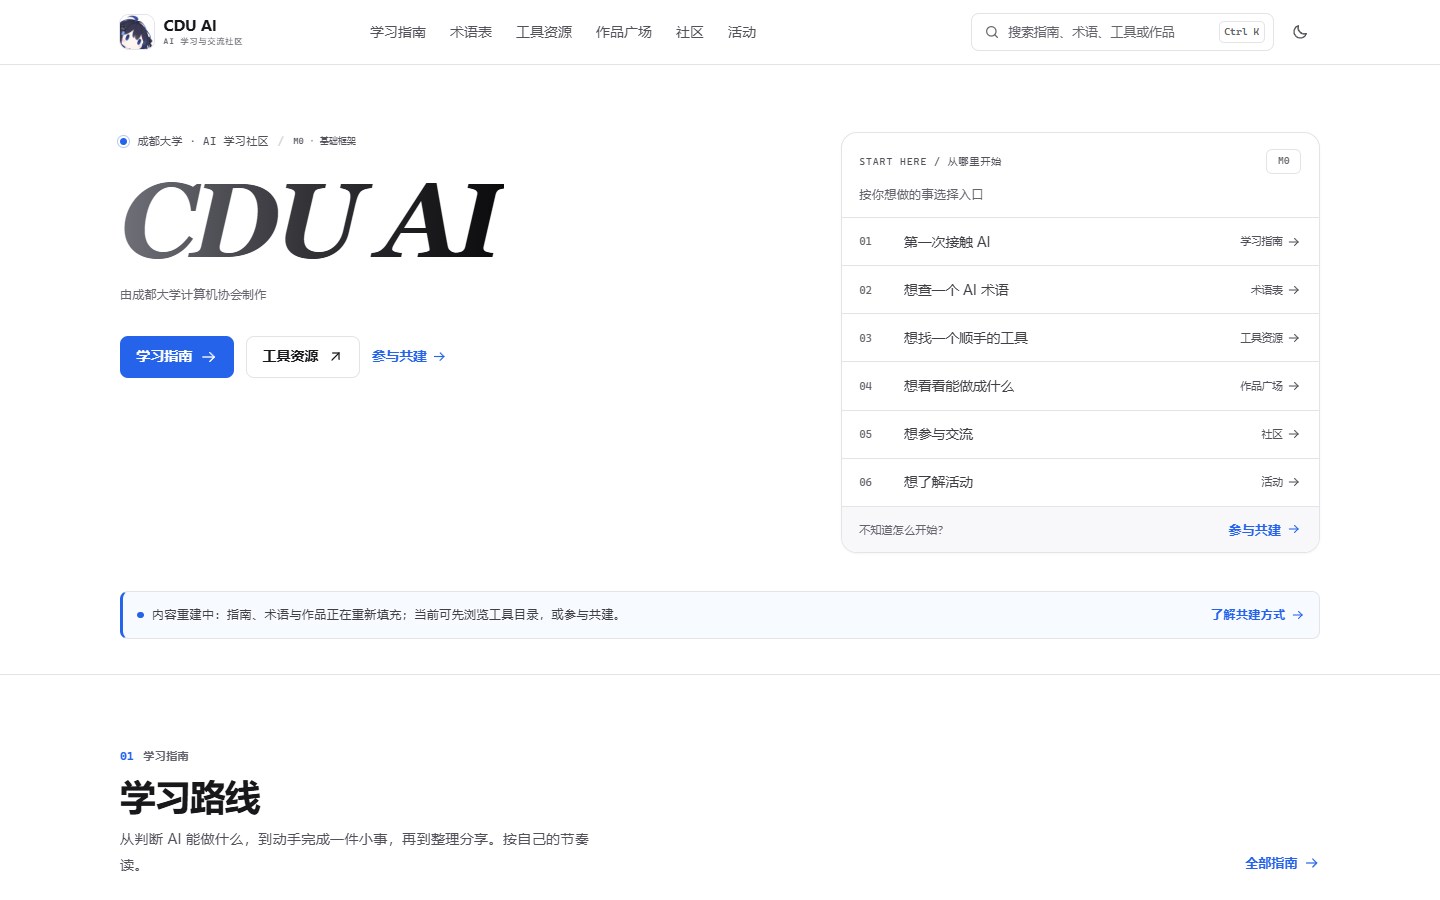
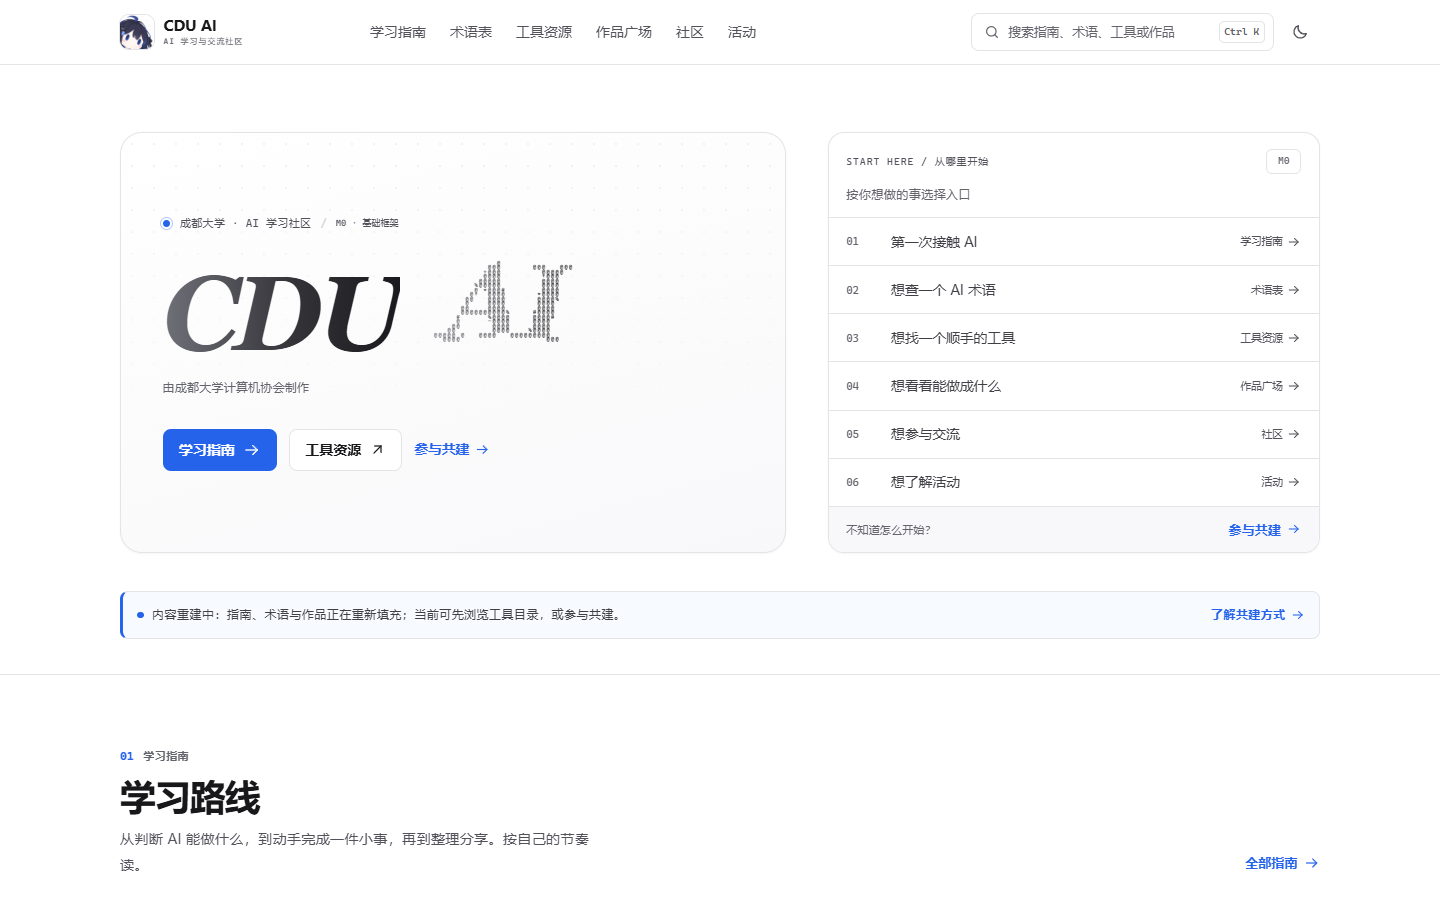
feat: Hero 文案区卡片承接与 AI ASCII 字符画

diff --git a/src/scripts/ascii-ai.ts b/src/scripts/ascii-ai.ts
@@ -1,0 +1,218 @@
+/**
+ * 把「AI」渲染成 ASCII 字符画（轻量 Canvas 实现）。
+ *
+ * 参考了常见的 ASCII text 效果（文字采样成字符 + 波浪 / 指针交互），
+ * 但没有引入 three.js / React：这里只用 2D canvas，体积约 3KB。
+ *
+ * 约束：
+ * - 默认静态渲染，不阻塞首屏；初始化完成后才显示 canvas；
+ * - prefers-reduced-motion 时不做动画；
+ * - 主题切换时重新计算字符颜色；不监听 scroll；
+ * - 无 JS 时由组件里的 fallback 显示普通「AI」字样。
+ */
+
+const CHARSET = ' .:-=+*#%@';
+const MONO = '"Cascadia Code", "JetBrains Mono", Consolas, "SFMono-Regular", monospace';
+const LIGHT_COLORS = ['#6f6f78', '#333338', '#0b0b0d'];
+const DARK_COLORS = ['#9a9aa3', '#c9c9d0', '#fafafa'];
+const TARGET_FPS = 24;
+
+interface AsciiInstanceState {
+  hosts: HTMLElement[];
+  raf: number;
+  lastFrame: number;
+  reduced: MediaQueryList;
+}
+
+function setupHost(host: HTMLElement, state: AsciiInstanceState) {
+  const canvas = host.querySelector<HTMLCanvasElement>('canvas');
+  const ctx = canvas?.getContext('2d');
+  if (!canvas || !ctx) return () => {};
+
+  let width = 0;
+  let height = 0;
+  let cell = 8;
+  let cols = 0;
+  let rows = 0;
+  let alpha: Float32Array | null = null;
+  let gradient: CanvasGradient | null = null;
+  let pointer = { x: 0, y: 0, active: false };
+
+  const isDark = () => document.documentElement.dataset.theme === 'dark';
+
+  const monoFont = (size: number) => `${Math.max(6, Math.round(size))}px ${MONO}`;
+
+  const sampleText = () => {
+    const off = document.createElement('canvas');
+    off.width = Math.max(1, Math.round(width));
+    off.height = Math.max(1, Math.round(height));
+    const octx = off.getContext('2d');
+    if (!octx) return null;
+
+    octx.clearRect(0, 0, off.width, off.height);
+    octx.fillStyle = '#000';
+    octx.textBaseline = 'alphabetic';
+
+    let fontSize = off.height * 1.02;
+    octx.font = `italic 700 ${fontSize}px Georgia, "Times New Roman", serif`;
+    const measured = octx.measureText('AI').width;
+    if (measured > off.width * 0.98) {
+      fontSize *= (off.width * 0.98) / measured;
+      octx.font = `italic 700 ${fontSize}px Georgia, "Times New Roman", serif`;
+    }
+    const textWidth = octx.measureText('AI').width;
+    octx.fillText('AI', (off.width - textWidth) / 2, off.height * 0.84);
+    return octx.getImageData(0, 0, off.width, off.height);
+  };
+
+  const build = () => {
+    const rect = host.getBoundingClientRect();
+    width = Math.max(24, Math.round(rect.width));
+    height = Math.max(16, Math.round(rect.height));
+
+    const dpr = Math.min(2, window.devicePixelRatio || 1);
+    canvas.width = Math.round(width * dpr);
+    canvas.height = Math.round(height * dpr);
+    ctx.setTransform(dpr, 0, 0, dpr, 0, 0);
+
+    // 字符行数决定「颗粒度」：约 20–24 行时 AI 字形清楚但不至于太密。
+    rows = Math.max(12, Math.min(28, Math.round(height / 4.6)));
+    cell = height / rows;
+    cols = Math.ceil(width / cell) + 1;
+
+    const source = sampleText();
+    alpha = new Float32Array(cols * rows);
+    if (source) {
+      const sw = source.width;
+      const sh = source.height;
+      for (let row = 0; row < rows; row += 1) {
+        for (let col = 0; col < cols; col += 1) {
+          const sx = Math.min(sw - 1, Math.floor((col / cols) * sw));
+          const sy = Math.min(sh - 1, Math.floor((row / rows) * sh));
+          alpha[row * cols + col] = source.data[(sy * sw + sx) * 4 + 3] / 255;
+        }
+      }
+    }
+
+    gradient = null;
+  };
+
+  const render = (time: number) => {
+    if (!alpha) return;
+    if (!gradient) {
+      gradient = ctx.createLinearGradient(0, 0, width, 0);
+      const colors = isDark() ? DARK_COLORS : LIGHT_COLORS;
+      colors.forEach((color, index) => gradient!.addColorStop(index / (colors.length - 1), color));
+    }
+
+    ctx.clearRect(0, 0, width, height);
+    ctx.font = monoFont(cell * 0.96);
+    ctx.textBaseline = 'top';
+    ctx.textAlign = 'center';
+    ctx.fillStyle = gradient;
+
+    const moving = !state.reduced.matches;
+    const waveAmp = moving ? 0.55 : 0;
+    const waveTime = time * 0.0016;
+    const offsetX = pointer.active ? pointer.x * cell * 1.4 : 0;
+    const offsetY = pointer.active ? pointer.y * cell * 1.4 : 0;
+
+    for (let row = 0; row < rows; row += 1) {
+      for (let col = 0; col < cols; col += 1) {
+        const sourceRow =
+          waveAmp === 0
+            ? row
+            : Math.min(rows - 1, Math.max(0, Math.round(row + Math.sin(waveTime + col * 0.28) * waveAmp)));
+        const value = alpha[sourceRow * cols + col] ?? 0;
+        if (value < 0.18) continue;
+        // 把透明度向上映射，让字符更实，避免「AI」看起来太虚。
+        const scaled = 0.2 + value * 0.8;
+        const char = CHARSET[Math.min(CHARSET.length - 1, Math.floor(scaled * CHARSET.length))];
+        if (char === ' ') continue;
+        ctx.fillText(char, col * cell + cell / 2 + offsetX, row * cell + offsetY);
+      }
+    }
+  };
+
+  const startAnimation = () => {
+    cancelAnimationFrame(state.raf);
+    const loop = (time: number) => {
+      if (document.hidden) {
+        state.raf = requestAnimationFrame(loop);
+        return;
+      }
+      if (time - state.lastFrame >= 1000 / TARGET_FPS) {
+        state.lastFrame = time;
+        render(time);
+      }
+      state.raf = requestAnimationFrame(loop);
+    };
+    state.lastFrame = 0;
+    state.raf = requestAnimationFrame(loop);
+  };
+
+  const drawStatic = () => {
+    cancelAnimationFrame(state.raf);
+    render(0);
+  };
+
+  const refresh = () => {
+    build();
+    gradient = null;
+    if (state.reduced.matches) drawStatic();
+    else startAnimation();
+    host.classList.add('is-ready');
+  };
+
+  refresh();
+
+  const resizeObserver = new ResizeObserver(() => refresh());
+  resizeObserver.observe(host);
+
+  const onPointerMove = (event: PointerEvent) => {
+    const rect = host.getBoundingClientRect();
+    pointer = {
+      x: (event.clientX - rect.left) / rect.width - 0.5,
+      y: (event.clientY - rect.top) / rect.height - 0.5,
+      active: true,
+    };
+  };
+  const onPointerLeave = () => {
+    pointer = { x: 0, y: 0, active: false };
+  };
+  host.addEventListener('pointermove', onPointerMove);
+  host.addEventListener('pointerleave', onPointerLeave);
+
+  const themeObserver = new MutationObserver(() => {
+    gradient = null;
+    if (state.reduced.matches) drawStatic();
+    else startAnimation();
+  });
+  themeObserver.observe(document.documentElement, { attributes: true, attributeFilter: ['data-theme'] });
+
+  const onMotionChange = () => {
+    if (state.reduced.matches) drawStatic();
+    else startAnimation();
+  };
+  state.reduced.addEventListener('change', onMotionChange);
+
+  return () => {
+    cancelAnimationFrame(state.raf);
+    resizeObserver.disconnect();
+    themeObserver.disconnect();
+    state.reduced.removeEventListener('change', onMotionChange);
+    host.removeEventListener('pointermove', onPointerMove);
+    host.removeEventListener('pointerleave', onPointerLeave);
+  };
+}
+
+const hosts = Array.from(document.querySelectorAll<HTMLElement>('[data-ascii-ai]'));
+if (hosts.length > 0) {
+  const state = {
+    hosts,
+    raf: 0,
+    lastFrame: 0,
+    reduced: window.matchMedia('(prefers-reduced-motion: reduce)'),
+  };
+  for (const host of hosts) setupHost(host, state);
+}

diff --git a/src/styles/home-v2.css b/src/styles/home-v2.css
@@ -19,12 +19,40 @@
 .home-hero__grid {
   display: grid;
   grid-template-columns: minmax(0, 1.15fr) minmax(280px, 0.85fr);
-  gap: clamp(2rem, 5vw, 4.5rem);
-  align-items: start;
+  gap: clamp(1.4rem, 3.2vw, 2.6rem);
+  align-items: stretch;
 }
 
 .home-hero__main {
-  max-width: 680px;
+  position: relative;
+  display: flex;
+  flex-direction: column;
+  justify-content: center;
+  max-width: none;
+  overflow: hidden;
+  padding: clamp(1.5rem, 3vw, 2.6rem);
+  border: 1px solid var(--line);
+  border-radius: var(--radius-xl);
+  background: linear-gradient(165deg, var(--surface) 0%, var(--bg-soft) 100%);
+  box-shadow: var(--shadow-xs);
+}
+
+/* 卡片内部的极淡点阵，让「承接区域」有材质而不抢内容 */
+.home-hero__main::before {
+  content: '';
+  position: absolute;
+  inset: 0;
+  background-image: radial-gradient(var(--line-strong) 1px, transparent 1px);
+  background-size: 22px 22px;
+  opacity: 0.32;
+  -webkit-mask-image: linear-gradient(180deg, #000 0%, transparent 78%);
+  mask-image: linear-gradient(180deg, #000 0%, transparent 78%);
+  pointer-events: none;
+}
+
+.home-hero__main > * {
+  position: relative;
+  z-index: 1;
 }
 
 .home-hero__kicker {
@@ -52,9 +80,11 @@
   line-height: 0.95;
 }
 
-/* 品牌字：一点艺术感（衬线斜体）+ 左→右「灰黑到黑」渐变 */
+/* 品牌字：CDU 用衬线斜体 + 灰黑渐变；AI 用 ASCII 字符画 */
 .home-hero__wordmark {
-  display: inline-block;
+  display: inline-flex;
+  align-items: baseline;
+  gap: 0.12em;
   padding-right: 0.06em;
   font-family: Georgia, 'Times New Roman', 'Songti SC', 'SimSun', serif;
   font-style: italic;
@@ -62,17 +92,66 @@
   font-size: clamp(3.6rem, 8.6vw, 6.6rem);
   line-height: 0.98;
   letter-spacing: -0.045em;
-  background: linear-gradient(90deg, #707079 0%, #333338 48%, #0b0b0d 100%);
+}
+
+.home-hero__wordmark-cdu {
+  background: linear-gradient(90deg, #707079 0%, #333338 55%, #1a1a1e 100%);
   -webkit-background-clip: text;
   background-clip: text;
   color: transparent;
   -webkit-text-fill-color: transparent;
 }
 
-:root[data-theme='dark'] .home-hero__wordmark {
-  background: linear-gradient(90deg, #8d8d96 0%, #c9c9d0 50%, #fafafa 100%);
+:root[data-theme='dark'] .home-hero__wordmark-cdu {
+  background: linear-gradient(90deg, #8d8d96 0%, #d6d6dc 60%, #fafafa 100%);
   -webkit-background-clip: text;
   background-clip: text;
+}
+
+.ascii-ai {
+  position: relative;
+  display: inline-block;
+  width: 1.62em;
+  height: 0.94em;
+  flex: none;
+  vertical-align: baseline;
+}
+
+.ascii-ai__canvas {
+  display: block;
+  width: 100%;
+  height: 100%;
+  opacity: 0;
+  transition: opacity var(--dur-base) var(--ease-out);
+}
+
+.ascii-ai.is-ready .ascii-ai__canvas {
+  opacity: 1;
+}
+
+.ascii-ai__fallback {
+  position: absolute;
+  inset: 0;
+  display: flex;
+  align-items: flex-end;
+  justify-content: center;
+  line-height: 1;
+  letter-spacing: inherit;
+  background: linear-gradient(90deg, #55555d 0%, #18181b 100%);
+  -webkit-background-clip: text;
+  background-clip: text;
+  color: transparent;
+  -webkit-text-fill-color: transparent;
+}
+
+:root[data-theme='dark'] .ascii-ai__fallback {
+  background: linear-gradient(90deg, #9a9aa3 0%, #fafafa 100%);
+  -webkit-background-clip: text;
+  background-clip: text;
+}
+
+.ascii-ai.is-ready .ascii-ai__fallback {
+  opacity: 0;
 }
 
 .home-hero__byline {
@@ -669,13 +748,9 @@
 }
 
 @media (max-width: 480px) {
-  .home-hero__actions {
-    flex-direction: column;
-    align-items: stretch;
-  }
-
   .home-hero__actions .btn {
     justify-content: center;
+    flex: 1 1 100%;
   }
 
   .home-index__row {

diff --git a/docs/DESIGN-REVIEW.md b/docs/DESIGN-REVIEW.md
@@ -35,6 +35,7 @@
 - **VibeHub**（已记录在案）：白底、蓝色交互色、目录式浏览、克制的悬浮层。借鉴其信息密度与导航组织。
 - **Notion 文档排版**（已记录在案）：文档页的正文层级、标题紧字距、元信息弱化。借鉴其阅读节奏。
 - **Linear 类产品**：编号索引、等宽元信息、短促的交互反馈。**只借鉴排版与时长感**，不借用其暗色视觉、渐变或动效装饰。
+- **ASCII 文字效果**：参考 Juan Fuentes 的 CodePen（https://codepen.io/JuanFuentes/pen/eYEeoyE）的「文字采样成 ASCII + 波浪 / 指针交互」思路；本站用纯 Canvas 重写，不引入 three.js / React。
 
 ## 4. 两套方向
 
@@ -133,3 +134,6 @@
 - 品牌字下方一行小字：「由成都大学计算机协会制作」。
 - 验收截图已按修订后版本更新。
 - 去掉 Hero 下方「所有专业 / 按自己的节奏 / 开放共建」元信息行（维护者反馈）。
+- Hero 文案区放入卡片承接：细边框 + 圆角 + 极淡点阵材质；右侧索引面板保持卡片，两者等高。
+- 「AI」字样改为 ASCII 字符画（Canvas 轻量实现）：字符密度采样 + 轻微波浪 / 指针视差；无 three.js / React；减少动效时静态渲染；无 JS 时回退普通艺术字；标题可访问名称仍为「CDU AI」。
+- 实测：ASCII 动画正常、reduce-motion 下静止、无 JS 时 fallback 可见；CLS = 0、无 console error。

diff --git a/docs/DESIGN-SYSTEM.md b/docs/DESIGN-SYSTEM.md
@@ -179,6 +179,7 @@ src/styles/
 
 - 设计评审、审计结论与两套方向见 [DESIGN-REVIEW.md](DESIGN-REVIEW.md)。
 - 阶段一只改首页：新 Hero、编号分区、行式学习路线、作品空状态、首屏进入与滚动 reveal；其他页面不动。
+- Hero 文案区由带细边框与极淡点阵材质的卡片承接；「AI」字样为 ASCII 字符画（Canvas 实现，约 3KB，无三方库；减少动效时静态，无 JS 时回退普通艺术字）。
 - 验收截图（真实 Edge 渲染，已提交仓库）：
 
 | 预览 | 文件 |
